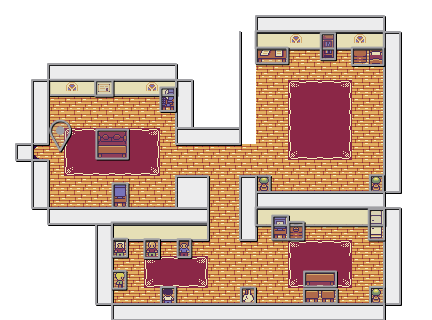
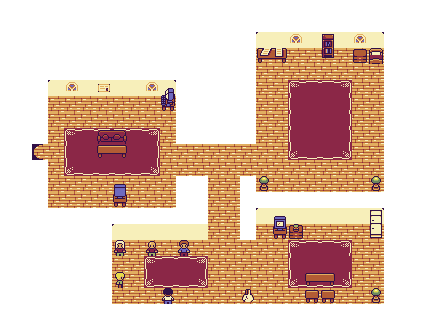
diyalog ve spawning mantığı eklendi.

Changed region(s): [[0.0301, 0.0312, 0.9329, 1.0], [0.2106, 0.375, 0.3009, 0.5]]

diff --git a/index.html b/index.html
@@ -8,14 +8,82 @@
   </head>
   <body>
     <style>
+      @font-face {
+        font-family: monogram;
+        src: url(monogram.ttf);
+      }
+
+      body {
+        font-family: monogram, monospace;
+        font-size: 2rem;
+        overflow: hidden;
+      }
+
       #app {
         width: 100%;
         height: 100%;
-        overflow: hidden;
+        position: relative;
+      }
+
+      #textbox {
+        position: absolute;
+        left: 10%;
+        right: 10%;
+        bottom: 2vh;
+        min-height: 10vh;
+        background: white;
+        border-radius: 3px;
+        outline-style: solid;
+        padding: 1rem;
+        display: flex;
+        flex-direction: column;
+        flex-wrap: wrap;
+        justify-content: flex-start;
+        align-items: flex-start;
+        word-spacing: 0.2rem;
+        filter: drop-shadow(0 0 0.75rem rgb(112, 112, 112));
+      }
+
+      .ui-text {
+        margin: 0;
+        user-select: none;
+      }
+
+      .ui-close-btn {
+        font-family: monogram, monospace;
+        border-style: none;
+        border-radius: 3px;
+        padding: 1rem;
+        font-size: inherit;
+      }
+
+      .btn-container {
+        align-self: flex-end;
+        margin-top: 1rem;
+      }
+
+      .note {
+        position: absolute;
+        left: 5%;
+        top: 1vh;
+        display: flex;
+        flex-direction: column;
+        color: rgb(238, 238, 238);
+        user-select: none;
       }
     </style>
     <div id="app">
-      <div id="ui"></div>
+      <div id="ui">
+        <p class="note">Hareket etmek icin etrafa dokun veya tikla.</p>
+        <div id="textbox-container" style="display: none">
+          <div id="textbox">
+            <p id="dialogue" class="ui-text"></p>
+            <div class="btn-container">
+              <button id="close" class="ui-close-btn">Kapat</button>
+            </div>
+          </div>
+        </div>
+      </div>
       <canvas id="game"></canvas>
     </div>
     <script type="module" src="src/main.js"></script>

diff --git a/src/main.js b/src/main.js
@@ -1,5 +1,6 @@
 import { scaleFactor } from "./constants";
 import { k } from "./kaboomCtx";
+import { displayDialogue } from "./utils";
 
 k.loadSprite("spritesheet", "./spritesheet.png", {
     sliceX: 39,
@@ -39,6 +40,46 @@ k.loadSprite("spritesheet", "./spritesheet.png", {
       },
       "player",
     ]);
+
+    for (const layer of layers) {
+      if (layer.name === "boundaries") {
+        for (const boundary of layer.objects) {
+          map.add([
+            k.area({
+              shape: new k.Rect(k.vec2(0), boundary.width, boundary.height),
+            }),
+            k.body({ isStatic: true }),
+            k.pos(boundary.x, boundary.y),
+            boundary.name,
+          ]);
+  
+          if (boundary.name) {
+            player.onCollide(boundary.name, () => {
+              player.isInDialogue = true;
+              displayDialogue(
+                dialogueData[boundary.name],
+                () => (player.isInDialogue = false)
+              );
+            });
+          }
+        }
+  
+        continue;
+      }
+  
+      if (layer.name === "spawnpoints") {
+        for (const entity of layer.objects) {
+          if (entity.name === "player") {
+            player.pos = k.vec2(
+              (map.pos.x + entity.x) * scaleFactor,
+              (map.pos.y + entity.y) * scaleFactor
+            );
+            k.add(player);
+            continue;
+          }
+        }
+      }
+    }    
   });
 
   k.go("main");

diff --git a/src/utils.js b/src/utils.js
@@ -1,0 +1,32 @@
+export function displayDialogue(text, onDisplayEnd) {
+    const dialogueUI = document.getElementById("textbox-container");
+    const dialogue = document.getElementById("dialogue");
+
+    dialogueUI.style.display = "block";
+
+    let index = 0;
+    let currentText = "";
+    const intervalRef = setInterval(() => {
+        if (index < text.length) {
+            currentText += text[index];
+            dialogue.innerHTML = currentText;
+            index++;
+            return;
+        }
+
+        clearInterval(intervalRef);
+    }, 5);
+
+    const closeBtn = document.getElementById("close");
+
+    function onCloseBtnClick() {
+        onDisplayEnd();
+        dialogueUI.style.display = "none";
+        dialogue.innerHTML = "";
+        clearInterval(intervalRef);
+        closeBtn.removeEventListener("click", onCloseBtnClick);
+    }
+
+    closeBtn.addEventListener("click", onCloseBtnClick);
+}
+    
